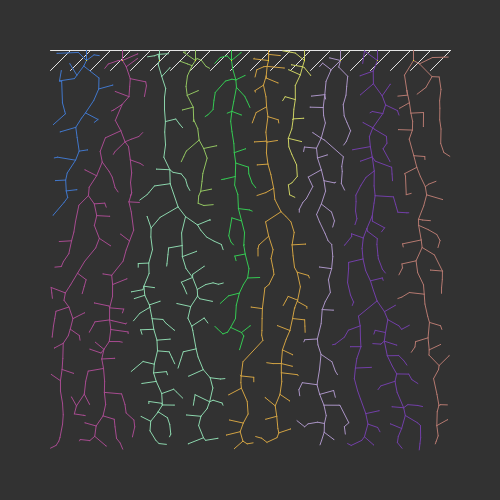
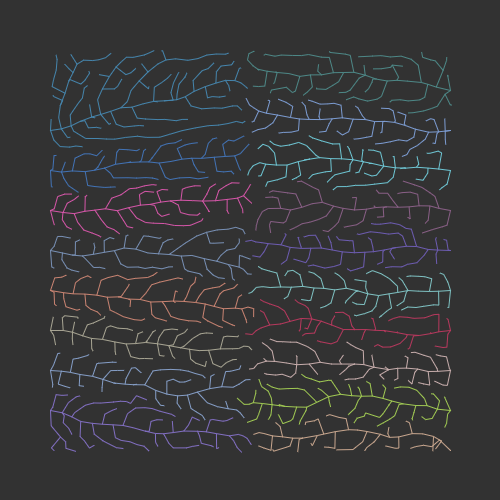
p5js/common/ex/space-colonization - Publish the generic example
Feel that this is sufficiently distinct to publish now, with its alternate layouts

Still more to do
- enable control of the 'Influencers'
- have boundary lines for network edges
- enable interwoven networks

Changed region(s): [[0.09, 0.09, 0.9, 0.9]]

diff --git a/js/models/space-colonization/space.js b/js/models/space-colonization/space.js
@@ -14,6 +14,10 @@ class Space {
     this.networks = [];
     if (this.params.mode == 'along-top-edge'){
       this.placeNetworksAlongTopEdge();
+    } else if (this.params.mode == 'along-all-edges'){
+      this.placeNetworksAllEdges();
+    } else if (this.params.mode == 'along-top-bottom-edges'){
+      this.placeNetworksTopBottomEdges();
     } else if (this.params.mode == 'along-left-right-edges'){
       this.placeNetworksLeftRightEdges();
     } else if (this.params.mode == 'top-down-random'){
@@ -28,6 +32,24 @@ class Space {
     for (var i = 0; i< this.params.num_networks; i++){
       let xPos = Math.floor(spacing * (i + 1));
       let newNetwork = new NetworkRoot(xPos, 0, this.params);
+      this.addNetwork(newNetwork);
+    }
+  }
+
+  placeNetworksAllEdges(){
+    let relativeRect = new Rect(0, 0, this.area.width, this.area.height);
+    const locations = LayoutUtilFunctions.alongEdges(relativeRect, this.params.num_networks, ['top', 'right', 'bottom', 'left']);
+    for (var i = 0; i< locations.length; i++){
+      let newNetwork = new NetworkRoot(locations[i][0], locations[i][1], this.params);
+      this.addNetwork(newNetwork);
+    }
+  }
+
+  placeNetworksTopBottomEdges(){
+    let relativeRect = new Rect(0, 0, this.area.width, this.area.height);
+    const locations = LayoutUtilFunctions.alongEdges(relativeRect, this.params.num_networks, ['top', 'bottom']);
+    for (var i = 0; i< locations.length; i++){
+      let newNetwork = new NetworkRoot(locations[i][0], locations[i][1], this.params);
       this.addNetwork(newNetwork);
     }
   }

diff --git a/p5js/common/examples/space-colonization/local_dev.html b/p5js/common/examples/space-colonization/local_dev.html
@@ -6,7 +6,8 @@
     <title>P5.JS - Common Examples - Space Colonization</title>
     <meta name="viewport" content="user-scalable=no,initial-scale=1,maximum-scale=1,minimum-scale=1,width=device-width">
 
-    <script src="/sketchbook/vendor/p5.js/0.7.2/p5.js" charset="utf-8"></script>
+    <script src="//cdnjs.cloudflare.com/ajax/libs/inobounce/0.2.1/inobounce.js" charset="utf-8"></script>
+    <script src="/sketchbook/vendor/p5.js/1.11.2/p5.min.js" charset="utf-8"></script>
     <script src="/sketchbook/vendor/lil-gui/0.20.0/lil-gui.min.js"></script>
     <script src="/sketchbook/p5js/common/p5js_settings.js" charset="utf-8"></script>
     <script src="/sketchbook/p5js/common/p5js_utils.js" charset="utf-8"></script>

diff --git a/p5js/common/examples/space-colonization/app.js b/p5js/common/examples/space-colonization/app.js
@@ -1,10 +1,16 @@
 var system;
 var canvas;
-let modes = ['along-top-edge', 'along-left-right-edges', 'top-down-random', 'top-down-orderly-rows'];
+let modes = ['along-top-edge', 
+  'along-all-edges',
+  'along-top-bottom-edges',
+  'along-left-right-edges',
+  'top-down-random',
+  'top-down-orderly-rows'
+];
 
 var gui;
 var params = {
-  mode: 'along-top-edge',
+  mode: 'along-all-edges',
   num_influencers: 1500,
   draw_network_areas: false,
   draw_segment_areas: false,

diff --git a/js/models/space-colonization/network_root.js b/js/models/space-colonization/network_root.js
@@ -11,7 +11,7 @@ class NetworkRoot {
     this.color = color(random(50, 220), random(50, 220), random(50, 220));
     this.fillColor = color(red(this.color), green(this.color), blue(this.color), 80);
 
-    let firstSegment = new NetworkSegment(this.x, this.y + 10, this, this);
+    let firstSegment = new NetworkSegment(this.x, this.y, this, this);
     this.addSegment(firstSegment);
   }
 

diff --git a/README.md b/README.md
@@ -7,7 +7,7 @@ Collection of personal coding projects. They may or may not grow into individual
 
 An example of emerge reusable Terrain component, with computed isolines (refactored from Marching Squares sketch).
 
-[<img src="./p5js/common/examples/terrain/screenshot-01.png" alt="terrain" width="150px" />][link-p5js-terrain]
+[<img src="./p5js/common/examples/space-colonization/screenshot-01.png" alt="quadtree" width="150px" />][link-p5js-space-colonization]
 
 ## LÖVE
 Collection of sketches using the [LÖVE][love2d] environment.
@@ -37,6 +37,7 @@ Collection of sketches using the [p5.js][p5js] Javascript library which demonstr
 [<img src="./p5js/common/examples/quadtree-2/screenshot-01.png" alt="quadtree" width="150px" />][link-p5js-quadtree-2]
 [<img src="./p5js/common/examples/rotation-between-vectors/screenshot-01.png" alt="quadtree" width="150px" />][link-p5js-rotation-between-vectors]
 [<img src="./p5js/common/examples/shapes-tangents-between-circles/screenshot-01.png" alt="quadtree" width="150px" />][link-p5js-shapes-tangents-between-circles]
+[<img src="./p5js/common/examples/space-colonization/screenshot-01.png" alt="quadtree" width="150px" />][link-p5js-space-colonization]
 [<img src="./p5js/common/examples/teardrops/screenshot-01.png" alt="teardrops" width="150px" />][link-p5js-teardrops]
 [<img src="./p5js/common/examples/terrain/screenshot-01.png" alt="terrain" width="150px" />][link-p5js-terrain]
 [<img src="./p5js/common/examples/utils-random-color/screenshot-01.png" alt="teardrops" width="150px" />][link-p5js-utils-random-color]
@@ -168,6 +169,7 @@ Collection of sketches using the [Processing (P3)][processing] environment.
 [link-p5js-quadtree-2]: https://github.com/brianhonohan/sketchbook/tree/master/p5js/common/examples/quadtree-2/
 [link-p5js-rotation-between-vectors]: https://github.com/brianhonohan/sketchbook/tree/master/p5js/common/examples/rotation-between-vectors/
 [link-p5js-shapes-tangents-between-circles]: https://github.com/brianhonohan/sketchbook/tree/master/p5js/common/examples/shapes-tangents-between-circles/
+[link-p5js-space-colonization]: https://github.com/brianhonohan/sketchbook/tree/master/p5js/common/examples/space-colonization/
 [link-p5js-voronoi]: https://github.com/brianhonohan/sketchbook/tree/master/p5js/common/examples/voronoi/
 [link-p5js-voronoi-2]: https://github.com/brianhonohan/sketchbook/tree/master/p5js/common/examples/voronoi-2/
 [link-p5js-voronoi-3]: https://github.com/brianhonohan/sketchbook/tree/master/p5js/common/examples/voronoi-3/

diff --git a/p5js/common/examples/space-colonization/README.md b/p5js/common/examples/space-colonization/README.md
@@ -1,7 +1,9 @@
 
 ## Overview
 
-This is a [p5.js][p5js-home] sketch intended to make a reusable component out of my earlier Space Colonziation sketch, which was inspired by the [Coding Train's][coding-train] [Coding Challenge #17][ct-challenge-17] on implementing the 'Space Colonization' tree growth algorithm, as outlined on [AlgorithmBotany.com][algo-botany-space-colonization].
+This is a [p5.js][p5js-home] sketch intended to make a reusable component out of my earlier Space Colonziation sketch.
+
+Original sketch which was inspired by the [Coding Train's][coding-train] [Coding Challenge #17][ct-challenge-17] on implementing the 'Space Colonization' tree growth algorithm, as outlined on [AlgorithmBotany.com][algo-botany-space-colonization].
 
 
 
@@ -17,6 +19,7 @@ Keyboard:
 * [AlgorithmBotany.com - Space Colonization][algo-botany-space-colonization]
 * [CropNutrition.com - How Plants Absorb Nutrients][cropnutrition-how-plants-absorb]
 * [Wikipedia - Hydrotropism][wikipedia-hydrotropism]
+* [James Webb - Space Colonization][medium-jwebb-space-colonization]
 
 # Links: 
 
@@ -44,3 +47,4 @@ Keyboard:
 [algo-botany-space-colonization]: http://algorithmicbotany.org/papers/colonization.egwnp2007.html
 [cropnutrition-how-plants-absorb]: https://www.cropnutrition.com/how-vegetable-plant-roots-absorb-nutrients
 [wikipedia-hydrotropism]: https://en.wikipedia.org/wiki/Hydrotropism
+[medium-jwebb-space-colonization]: https://medium.com/@jason.webb/space-colonization-algorithm-in-javascript-6f683b743dc5

diff --git a/p5js/common/examples/space-colonization/index.md b/p5js/common/examples/space-colonization/index.md
@@ -3,11 +3,12 @@ layout: minimal
 title:  "p5.js - Common Examples - Space Colonization"
 categories: p5js
 modal: true
-bh_page_type: draft
-excerpt: Demonstrates the a generalized implementation of the 'space colonization' algorithm, mimicking the biological process of roots growing in spurts in an attempt to secure resources.
+viewport_noscale: true
+excerpt: Demonstrates a generalized implementation of the 'space colonization' algorithm, for use in non-botany related contexts and with addtional layout options.
 
 js_scripts:
-- /sketchbook/vendor/p5.js/0.7.2/p5.js
+- https://cdnjs.cloudflare.com/ajax/libs/inobounce/0.2.0/inobounce.js
+- https://cdnjs.cloudflare.com/ajax/libs/p5.js/1.11.2/p5.min.js
 - /sketchbook/vendor/lil-gui/0.20.0/lil-gui.min.js
 - /sketchbook/p5js/common/p5js_settings.js
 - /sketchbook/p5js/common/p5js_utils.js
